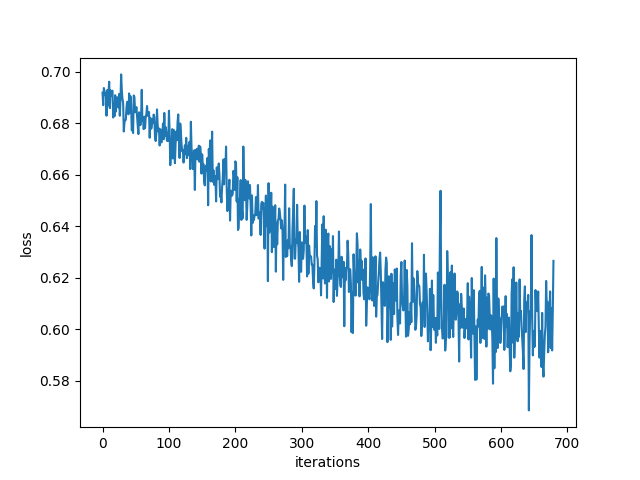
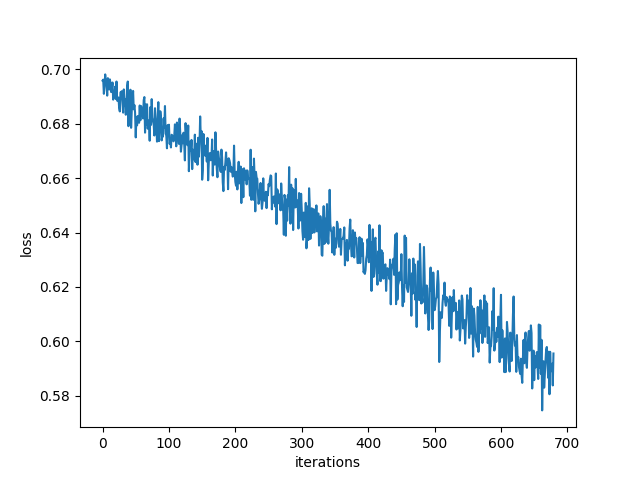
Regularization isn't working

diff --git a/Nick_tests/replicate/gender_model.py b/Nick_tests/replicate/gender_model.py
@@ -199,7 +199,7 @@ print("defined model")
 model.type(dtype)
 model.train()
 loss_fn = nn.CrossEntropyLoss().type(dtype)
-optimizer = optim.Adam(model.parameters(), lr=5e-6,weight_decay=5e0)
+optimizer = optim.Adam(model.parameters(), lr=1e-6,weight_decay=1)
 print("start training")
 loss_history,acc_history=train(train_loader, model, loss_fn, optimizer, dtype,num_epochs=40, print_every=17)
 
